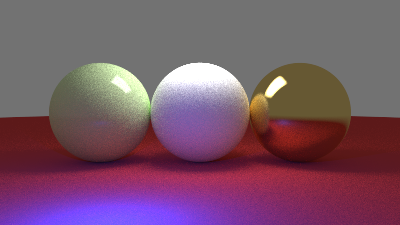
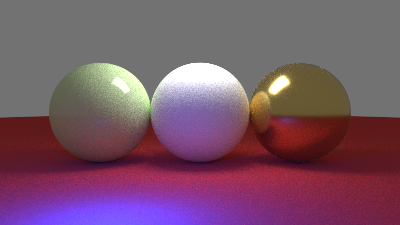
replace mixmaterial with mixbxdf

diff --git a/src/material.rs b/src/material.rs
@@ -3,14 +3,12 @@ use std::{f64::consts::PI, sync::Arc};
 use rand::{thread_rng, Rng};
 
 use crate::{
-    bsdf::{diffuse::DiffuseBRDF, glass::GlassBSDF, metal::MetalBRDF, principled::PrincipledBSDF},
+    bsdf::{diffuse::DiffuseBRDF, glass::GlassBSDF, metal::MetalBRDF, mix::MixBxDf, principled::PrincipledBSDF},
     hittable::hit_info::HitInfo,
     ray::Ray,
     texture::{SolidTexture, Texture},
     vec3::{random_vector, Vec3},
 };
-
-const EPS: f64 = 1e-3;
 
 pub trait Material: Send + Sync {
     /// returns: attenuation (brdf/pdf), and optionally the scattered ray
@@ -20,6 +18,7 @@ pub trait Material: Send + Sync {
     }
 }
 
+// const EPS: f64 = 1e-3;
 // #[derive(Clone)]
 // pub struct Diffuse {
 //     texture: Arc<dyn Texture<Vec3>>,
@@ -177,33 +176,33 @@ impl Material for DiffuseLight {
     }
 }
 
-#[derive(Clone)]
-pub struct MixMaterial {
-    t: f64, // 0 = use mat1 entirely, 1 = use mat2 entirely
-    mat1: Arc<dyn Material>,
-    mat2: Arc<dyn Material>,
-}
+// #[derive(Clone)]
+// pub struct MixMaterial {
+//     t: f64, // 0 = use mat1 entirely, 1 = use mat2 entirely
+//     mat1: Arc<dyn Material>,
+//     mat2: Arc<dyn Material>,
+// }
 
-impl MixMaterial {
-    pub fn new(t: f64, mat1: Arc<dyn Material>, mat2: Arc<dyn Material>) -> MixMaterial {
-        Self {
-            t: t.clamp(0.0, 1.0),
-            mat1,
-            mat2,
-        }
-    }
-}
+// impl MixMaterial {
+//     pub fn new(t: f64, mat1: Arc<dyn Material>, mat2: Arc<dyn Material>) -> MixMaterial {
+//         Self {
+//             t: t.clamp(0.0, 1.0),
+//             mat1,
+//             mat2,
+//         }
+//     }
+// }
 
-impl Material for MixMaterial {
-    fn scatter(&self, ray: &Ray, hit_info: &HitInfo) -> (Vec3, Option<Ray>) {
-        let p: f64 = thread_rng().gen();
-        if self.t < p {
-            self.mat1.scatter(ray, hit_info)
-        } else {
-            self.mat2.scatter(ray, hit_info)
-        }
-    }
-}
+// impl Material for MixMaterial {
+//     fn scatter(&self, ray: &Ray, hit_info: &HitInfo) -> (Vec3, Option<Ray>) {
+//         let p: f64 = thread_rng().gen();
+//         if self.t < p {
+//             self.mat1.scatter(ray, hit_info)
+//         } else {
+//             self.mat2.scatter(ray, hit_info)
+//         }
+//     }
+// }
 
 #[derive(Clone)]
 pub enum MaterialType {
@@ -212,7 +211,7 @@ pub enum MaterialType {
     SPECULAR(MetalBRDF),
     REFRACTIVE(GlassBSDF),
     LIGHT(DiffuseLight),
-    MIX(MixMaterial),
+    MIX(MixBxDf),
 }
 
 impl Default for MaterialType {

diff --git a/src/bsdf/mix.rs b/src/bsdf/mix.rs
@@ -1,0 +1,65 @@
+use std::sync::Arc;
+
+use crate::{hittable::HitInfo, material::Material, ray::Ray, vec3::Vec3};
+
+use super::{BxDF, EPS};
+
+#[derive(Clone)]
+pub struct MixBxDf {
+    t: f64, // 0 = use mat1 entirely, 1 = use mat2 entirely
+    bxdf1: Arc<dyn BxDF>,
+    bxdf2: Arc<dyn BxDF>,
+}
+
+impl MixBxDf {
+    pub fn new(t: f64, bxdf1: Arc<dyn BxDF>, bxdf2: Arc<dyn BxDF>) -> MixBxDf {
+        Self {
+            t: t.clamp(0.0, 1.0),
+            bxdf1,
+            bxdf2,
+        }
+    }
+}
+
+impl BxDF for MixBxDf {
+    fn sample(&self, ray: &Ray, info: &HitInfo) -> Option<Vec3> {
+        let p: f64 = rand::random();
+        if self.t < p {
+            self.bxdf1.sample(ray, info)
+        } else {
+            self.bxdf2.sample(ray, info)
+        }
+    }
+
+    fn pdf(&self, view_dir: Vec3, light_dir: Vec3, info: &HitInfo) -> f64 {
+        let p1 = (1.0 - self.t) * self.bxdf1.pdf(view_dir, light_dir, info);
+        let p2 = self.t * self.bxdf2.pdf(view_dir, light_dir, info);
+        p1 + p2
+    }
+
+    fn eval(&self, view_dir: Vec3, light_dir: Vec3, info: &HitInfo) -> crate::vec3::Vec3 {
+        let w1 = (1.0 - self.t) * self.bxdf1.eval(view_dir, light_dir, info);
+        let w2 = self.t * self.bxdf2.eval(view_dir, light_dir, info);
+        w1 + w2
+    }
+}
+
+impl Material for MixBxDf {
+    fn scatter(
+        &self,
+        ray: &crate::ray::Ray,
+        hit_info: &crate::hittable::HitInfo,
+    ) -> (Vec3, Option<Ray>) {
+        let dir = self.sample(ray, hit_info);
+        let Some(dir) = dir else {
+            return (crate::vec3::Vec3::ONE, None);
+        };
+        let pdf = self.pdf(-ray.direction(), dir, hit_info);
+        let brdf = self.eval(-ray.direction(), dir, hit_info);
+        let brdf_weight = brdf / pdf;
+
+        let eps = EPS * dir.dot(hit_info.normal).signum();
+        let next_ray = Ray::new(hit_info.point + eps * hit_info.normal, dir, ray.time());
+        (brdf_weight, Some(next_ray))
+    }
+}

diff --git a/src/main.rs b/src/main.rs
@@ -2,11 +2,11 @@ use std::env;
 use std::sync::Arc;
 
 use path_tracer::{
-    bsdf::{diffuse::DiffuseBRDF, glass::GlassBSDF, metal::MetalBRDF, principled::PrincipledBSDF},
+    bsdf::{diffuse::DiffuseBRDF, glass::GlassBSDF, metal::MetalBRDF, mix::MixBxDf, principled::PrincipledBSDF},
     camera::Camera,
     hittable::{Quad, Sphere, World},
     light::PointLight,
-    material::{DiffuseLight, MaterialType, MixMaterial},
+    material::{DiffuseLight, MaterialType},
     texture::{CheckerTexture, ImageTexture, SolidTexture},
     vec3::{random_vector, random_vector_range, Vec3},
 };
@@ -209,7 +209,8 @@ fn basic_light_scene() {
     // plasticy cermaicy material???
     let mat1a = DiffuseBRDF::from_rgb(Vec3::new(0.7, 0.9, 0.5));
     let mat1b = MetalBRDF::from_rgb(Vec3::ONE, 0.1);
-    let mat1 = MaterialType::MIX(MixMaterial::new(0.05, Arc::new(mat1a), Arc::new(mat1b)));
+    // let mat1 = MaterialType::MIX(MixMaterial::new(0.05, Arc::new(mat1a), Arc::new(mat1b)));
+    let mat1 = MaterialType::MIX(MixBxDf::new(0.05, Arc::new(mat1a), Arc::new(mat1b)));
     world.add(Sphere::new_still(2.0, Vec3::new(-4.0, 2.0, 0.0), mat1));
 
     let mat_diffuse = MaterialType::DIFFUSE(DiffuseBRDF::from_rgb(Vec3::ONE));
@@ -449,7 +450,7 @@ fn test_scene() {
 fn main() {
     env::set_var("RUST_BACKTRACE", "1");
 
-    let x = 1;
+    let x = 4;
     match x {
         1 => balls_scene(),
         2 => earth_scene(),

diff --git a/src/bsdf/mod.rs b/src/bsdf/mod.rs
@@ -9,6 +9,7 @@ pub mod clearcoat;
 pub mod diffuse;
 pub mod glass;
 pub mod metal;
+pub mod mix;
 pub mod principled;
 pub mod sampling;
 pub mod sheen;
